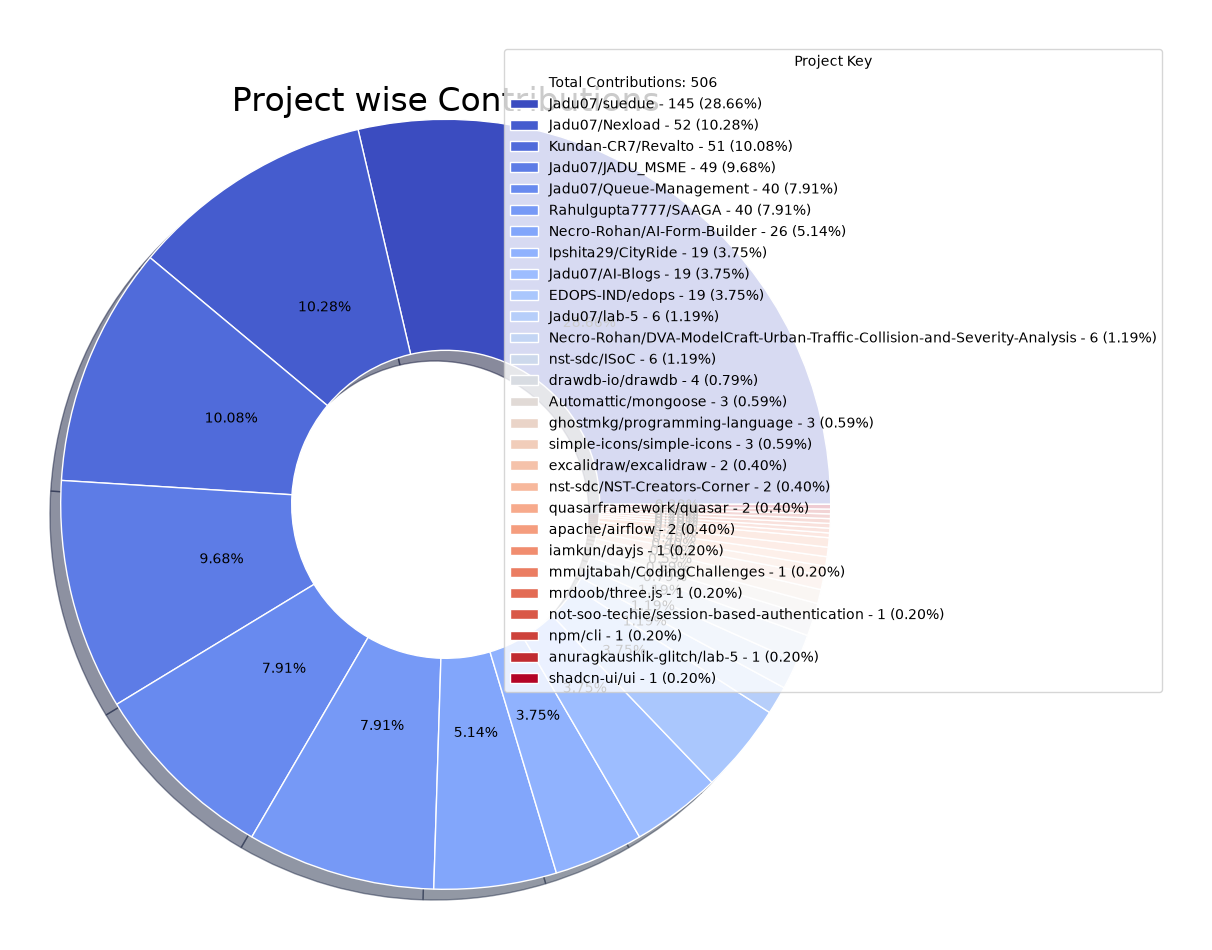
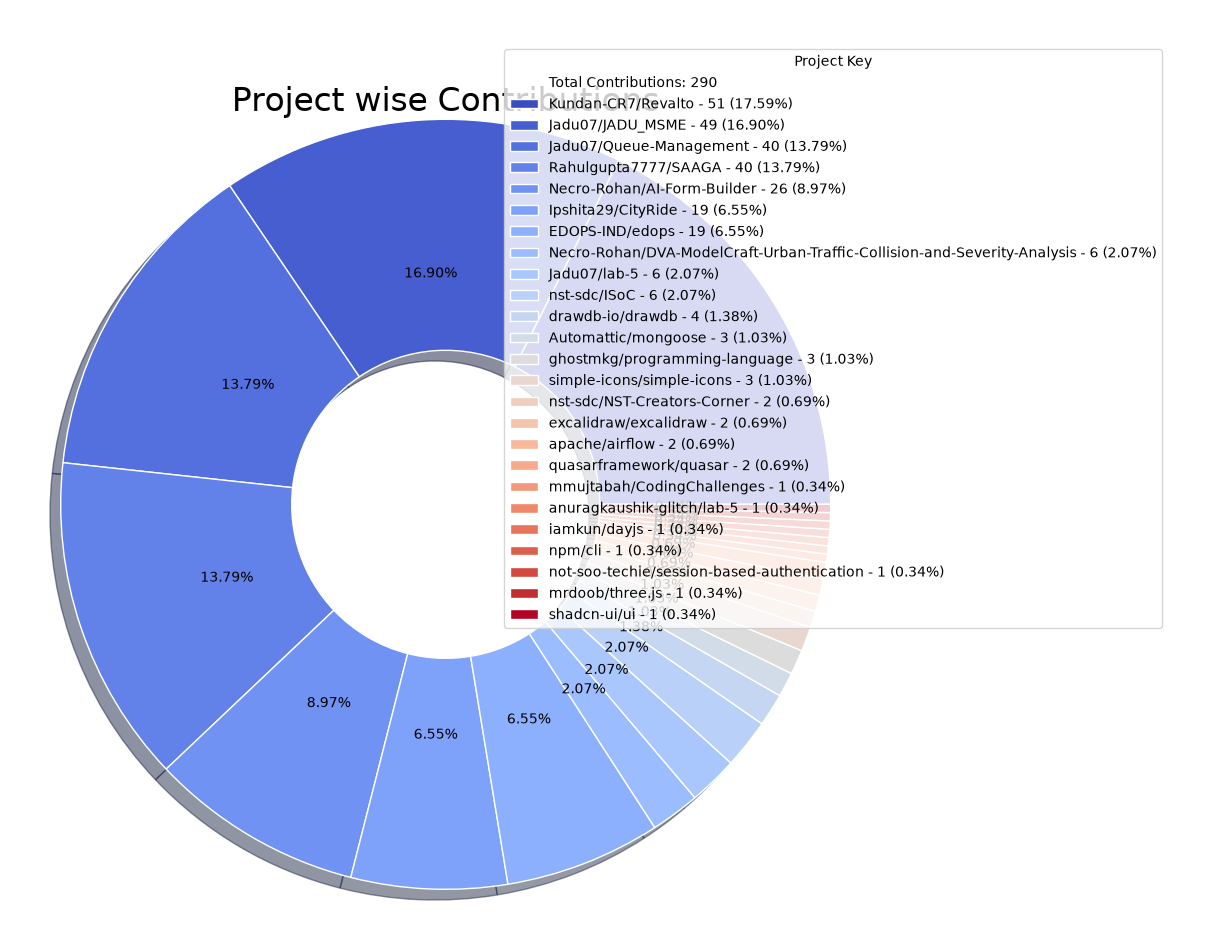
Run workflow and update to latest reports

diff --git a/output/github_contributions_report.md b/output/github_contributions_report.md
@@ -1,17 +1,17 @@
 # OpenSource Contributions Report
 
-*Report auto-generated on: 2026-10-23 22:31:16 for period 2023-01-01 to 2026-10-24*
+*Report auto-generated on: 2026-10-23 17:25:35 for period 2023-01-01 to 2026-10-24*
 
 ## Overall Summary
 
 | Metric | Value |
 |--------|-------|
-| Total number of projects | 28 |
-| Total number of repositories | 31 |
-| Total number of contributions | 506 |
-| Number of commits to master* | 492 |
+| Total number of projects | 25 |
+| Total number of repositories | 28 |
+| Total number of contributions | 290 |
+| Number of commits to master* | 276 |
 | Number of pull requests (Open)* | 9 |
-| Number of pull requests (Closed) | 138 |
+| Number of pull requests (Closed) | 117 |
 | Number of issues (Open)* | 1 |
 | Number of issues (Closed)* | 2 |
 | Total unique PRs reviewed* | 2 |
@@ -27,40 +27,37 @@
 
 | Project Key | Repositories | Users | Commits | Pull Requests (Open) | Pull Requests (Closed) | Issues (Open) | Issues (Closed) | Code Reviews | Overall Contribution |
 |--------------|--------------|-------|---------|----------------------|----------------------|----------------|----------------|--------------|----------------------|
-| Jadu07/suedue | <img src='https://avatars.githubusercontent.com/u/129044960?v=4' width='12' height='12'> [Jadu07/suedue](https://github.com/Jadu07/suedue) | <img src='https://avatars.githubusercontent.com/u/129044960?v=4' width='12' height='12'> [Yashraj Chouhan](https://github.com/Jadu07) | 145 | 0 | 6 | 0 | 0 | 0 | 145 |
-| Jadu07/Nexload | <img src='https://avatars.githubusercontent.com/u/129044960?v=4' width='12' height='12'> [Jadu07/Nexload](https://github.com/Jadu07/Nexload) | <img src='https://avatars.githubusercontent.com/u/129044960?v=4' width='12' height='12'> [Yashraj Chouhan](https://github.com/Jadu07) | 52 | 0 | 11 | 0 | 0 | 0 | 52 |
 | Kundan-CR7/Revalto | <img src='https://avatars.githubusercontent.com/u/184846815?v=4' width='12' height='12'> [Kundan-CR7/Revalto](https://github.com/Kundan-CR7/Revalto) | <img src='https://avatars.githubusercontent.com/u/129044960?v=4' width='12' height='12'> [Yashraj Chouhan](https://github.com/Jadu07) | 51 | 0 | 25 | 0 | 0 | 0 | 51 |
 | Jadu07/JADU_MSME | <img src='https://avatars.githubusercontent.com/u/129044960?v=4' width='12' height='12'> [Jadu07/JADU_MSME](https://github.com/Jadu07/JADU_MSME) | <img src='https://avatars.githubusercontent.com/u/129044960?v=4' width='12' height='12'> [Yashraj Chouhan](https://github.com/Jadu07) | 49 | 0 | 14 | 0 | 0 | 0 | 49 |
 | Jadu07/Queue-Management | <img src='https://avatars.githubusercontent.com/u/129044960?v=4' width='12' height='12'> [Jadu07/Queue-Management](https://github.com/Jadu07/Queue-Management) | <img src='https://avatars.githubusercontent.com/u/129044960?v=4' width='12' height='12'> [Yashraj Chouhan](https://github.com/Jadu07) | 40 | 0 | 1 | 0 | 0 | 0 | 40 |
 | Rahulgupta7777/SAAGA | <img src='https://avatars.githubusercontent.com/u/184137065?v=4' width='12' height='12'> [Rahulgupta7777/SAAGA](https://github.com/Rahulgupta7777/SAAGA) | <img src='https://avatars.githubusercontent.com/u/129044960?v=4' width='12' height='12'> [Yashraj Chouhan](https://github.com/Jadu07) | 40 | 0 | 22 | 0 | 0 | 0 | 40 |
 | Necro-Rohan/AI-Form-Builder | <img src='https://avatars.githubusercontent.com/u/184369299?v=4' width='12' height='12'> [Necro-Rohan/AI-Form-Builder](https://github.com/Necro-Rohan/AI-Form-Builder) | <img src='https://avatars.githubusercontent.com/u/129044960?v=4' width='12' height='12'> [Yashraj Chouhan](https://github.com/Jadu07) | 26 | 0 | 3 | 0 | 0 | 0 | 26 |
 | Ipshita29/CityRide | <img src='https://avatars.githubusercontent.com/u/184509749?v=4' width='12' height='12'> [Ipshita29/CityRide](https://github.com/Ipshita29/CityRide) | <img src='https://avatars.githubusercontent.com/u/129044960?v=4' width='12' height='12'> [Yashraj Chouhan](https://github.com/Jadu07) | 19 | 0 | 9 | 0 | 0 | 0 | 19 |
-| Jadu07/AI-Blogs | <img src='https://avatars.githubusercontent.com/u/129044960?v=4' width='12' height='12'> [Jadu07/AI-Blogs](https://github.com/Jadu07/AI-Blogs) | <img src='https://avatars.githubusercontent.com/u/129044960?v=4' width='12' height='12'> [Yashraj Chouhan](https://github.com/Jadu07) | 19 | 0 | 4 | 0 | 0 | 0 | 19 |
 | EDOPS-IND/edops | <img src='https://avatars.githubusercontent.com/u/326812527?v=4' width='12' height='12'> [EDOPS-IND/edops](https://github.com/EDOPS-IND/edops) | <img src='https://avatars.githubusercontent.com/u/129044960?v=4' width='12' height='12'> [Yashraj Chouhan](https://github.com/Jadu07) | 19 | 0 | 13 | 0 | 0 | 0 | 19 |
-| Jadu07/lab-5 | <img src='https://avatars.githubusercontent.com/u/129044960?v=4' width='12' height='12'> [Jadu07/lab-5](https://github.com/Jadu07/lab-5) | <img src='https://avatars.githubusercontent.com/u/129044960?v=4' width='12' height='12'> [Yashraj Chouhan](https://github.com/Jadu07) | 6 | 0 | 1 | 0 | 0 | 0 | 6 |
 | Necro-Rohan/DVA-ModelCraft-Urban-Traffic-Collision-and-Severity-Analysis | <img src='https://avatars.githubusercontent.com/u/184369299?v=4' width='12' height='12'> [Necro-Rohan/DVA-ModelCraft-Urban-Traffic-Collision-and-Severity-Analysis](https://github.com/Necro-Rohan/DVA-ModelCraft-Urban-Traffic-Collision-and-Severity-Analysis) | <img src='https://avatars.githubusercontent.com/u/129044960?v=4' width='12' height='12'> [Yashraj Chouhan](https://github.com/Jadu07) | 6 | 0 | 3 | 0 | 0 | 0 | 6 |
+| Jadu07/lab-5 | <img src='https://avatars.githubusercontent.com/u/129044960?v=4' width='12' height='12'> [Jadu07/lab-5](https://github.com/Jadu07/lab-5) | <img src='https://avatars.githubusercontent.com/u/129044960?v=4' width='12' height='12'> [Yashraj Chouhan](https://github.com/Jadu07) | 6 | 0 | 1 | 0 | 0 | 0 | 6 |
 | nst-sdc/ISoC | <img src='https://avatars.githubusercontent.com/u/187773245?v=4' width='12' height='12'> [nst-sdc/ISoC](https://github.com/nst-sdc/ISoC) | <img src='https://avatars.githubusercontent.com/u/129044960?v=4' width='12' height='12'> [Yashraj Chouhan](https://github.com/Jadu07) | 6 | 0 | 5 | 0 | 0 | 0 | 6 |
 | drawdb-io/drawdb | <img src='https://avatars.githubusercontent.com/u/139706923?v=4' width='12' height='12'> [drawdb-io/drawdb](https://github.com/drawdb-io/drawdb) | <img src='https://avatars.githubusercontent.com/u/129044960?v=4' width='12' height='12'> [Yashraj Chouhan](https://github.com/Jadu07) | 1 | 2 | 1 | 0 | 1 | 0 | 4 |
 | Automattic/mongoose | <img src='https://avatars.githubusercontent.com/u/887802?v=4' width='12' height='12'> [Automattic/mongoose](https://github.com/Automattic/mongoose) | <img src='https://avatars.githubusercontent.com/u/129044960?v=4' width='12' height='12'> [Yashraj Chouhan](https://github.com/Jadu07) | 2 | 0 | 1 | 0 | 0 | 1 | 3 |
 | ghostmkg/programming-language | <img src='https://avatars.githubusercontent.com/u/155181043?v=4' width='12' height='12'> [ghostmkg/programming-language](https://github.com/ghostmkg/programming-language) | <img src='https://avatars.githubusercontent.com/u/129044960?v=4' width='12' height='12'> [Yashraj Chouhan](https://github.com/Jadu07) | 3 | 0 | 4 | 0 | 0 | 0 | 3 |
 | simple-icons/simple-icons | <img src='https://avatars.githubusercontent.com/u/29872746?v=4' width='12' height='12'> [simple-icons/simple-icons](https://github.com/simple-icons/simple-icons) | <img src='https://avatars.githubusercontent.com/u/129044960?v=4' width='12' height='12'> [Yashraj Chouhan](https://github.com/Jadu07) | 0 | 2 | 0 | 0 | 0 | 1 | 3 |
-| excalidraw/excalidraw | <img src='https://avatars.githubusercontent.com/u/59452120?v=4' width='12' height='12'> [excalidraw/excalidraw](https://github.com/excalidraw/excalidraw) | <img src='https://avatars.githubusercontent.com/u/129044960?v=4' width='12' height='12'> [Yashraj Chouhan](https://github.com/Jadu07) | 0 | 1 | 0 | 1 | 0 | 0 | 2 |
 | nst-sdc/NST-Creators-Corner | <img src='https://avatars.githubusercontent.com/u/187773245?v=4' width='12' height='12'> [nst-sdc/NST-Creators-Corner](https://github.com/nst-sdc/NST-Creators-Corner) | <img src='https://avatars.githubusercontent.com/u/129044960?v=4' width='12' height='12'> [Yashraj Chouhan](https://github.com/Jadu07) | 1 | 0 | 1 | 0 | 1 | 0 | 2 |
-| quasarframework/quasar | <img src='https://avatars.githubusercontent.com/u/23064371?v=4' width='12' height='12'> [quasarframework/quasar](https://github.com/quasarframework/quasar) | <img src='https://avatars.githubusercontent.com/u/129044960?v=4' width='12' height='12'> [Yashraj Chouhan](https://github.com/Jadu07) | 2 | 0 | 4 | 0 | 0 | 0 | 2 |
+| excalidraw/excalidraw | <img src='https://avatars.githubusercontent.com/u/59452120?v=4' width='12' height='12'> [excalidraw/excalidraw](https://github.com/excalidraw/excalidraw) | <img src='https://avatars.githubusercontent.com/u/129044960?v=4' width='12' height='12'> [Yashraj Chouhan](https://github.com/Jadu07) | 0 | 1 | 0 | 1 | 0 | 0 | 2 |
 | apache/airflow | <img src='https://avatars.githubusercontent.com/u/47359?v=4' width='12' height='12'> [apache/airflow](https://github.com/apache/airflow) | <img src='https://avatars.githubusercontent.com/u/129044960?v=4' width='12' height='12'> [Yashraj Chouhan](https://github.com/Jadu07) | 2 | 0 | 2 | 0 | 0 | 0 | 2 |
-| iamkun/dayjs | <img src='https://avatars.githubusercontent.com/u/17680888?v=4' width='12' height='12'> [iamkun/dayjs](https://github.com/iamkun/dayjs) | <img src='https://avatars.githubusercontent.com/u/129044960?v=4' width='12' height='12'> [Yashraj Chouhan](https://github.com/Jadu07) | 0 | 1 | 0 | 0 | 0 | 0 | 1 |
+| quasarframework/quasar | <img src='https://avatars.githubusercontent.com/u/23064371?v=4' width='12' height='12'> [quasarframework/quasar](https://github.com/quasarframework/quasar) | <img src='https://avatars.githubusercontent.com/u/129044960?v=4' width='12' height='12'> [Yashraj Chouhan](https://github.com/Jadu07) | 2 | 0 | 4 | 0 | 0 | 0 | 2 |
 | mmujtabah/CodingChallenges | <img src='https://avatars.githubusercontent.com/u/64016614?v=4' width='12' height='12'> [mmujtabah/CodingChallenges](https://github.com/mmujtabah/CodingChallenges) | <img src='https://avatars.githubusercontent.com/u/129044960?v=4' width='12' height='12'> [Yashraj Chouhan](https://github.com/Jadu07) | 1 | 0 | 1 | 0 | 0 | 0 | 1 |
-| mrdoob/three.js | <img src='https://avatars.githubusercontent.com/u/97088?v=4' width='12' height='12'> [mrdoob/three.js](https://github.com/mrdoob/three.js) | <img src='https://avatars.githubusercontent.com/u/129044960?v=4' width='12' height='12'> [Yashraj Chouhan](https://github.com/Jadu07) | 1 | 0 | 3 | 0 | 0 | 0 | 1 |
-| not-soo-techie/session-based-authentication | <img src='https://avatars.githubusercontent.com/u/233537752?v=4' width='12' height='12'> [not-soo-techie/session-based-authentication](https://github.com/not-soo-techie/session-based-authentication) | <img src='https://avatars.githubusercontent.com/u/129044960?v=4' width='12' height='12'> [Yashraj Chouhan](https://github.com/Jadu07) | 0 | 1 | 0 | 0 | 0 | 0 | 1 |
-| npm/cli | <img src='https://avatars.githubusercontent.com/u/6078720?v=4' width='12' height='12'> [npm/cli](https://github.com/npm/cli) | <img src='https://avatars.githubusercontent.com/u/129044960?v=4' width='12' height='12'> [Yashraj Chouhan](https://github.com/Jadu07) | 1 | 0 | 1 | 0 | 0 | 0 | 1 |
 | anuragkaushik-glitch/lab-5 | <img src='https://avatars.githubusercontent.com/u/228701472?v=4' width='12' height='12'> [anuragkaushik-glitch/lab-5](https://github.com/anuragkaushik-glitch/lab-5) | <img src='https://avatars.githubusercontent.com/u/129044960?v=4' width='12' height='12'> [Yashraj Chouhan](https://github.com/Jadu07) | 0 | 1 | 0 | 0 | 0 | 0 | 1 |
+| iamkun/dayjs | <img src='https://avatars.githubusercontent.com/u/17680888?v=4' width='12' height='12'> [iamkun/dayjs](https://github.com/iamkun/dayjs) | <img src='https://avatars.githubusercontent.com/u/129044960?v=4' width='12' height='12'> [Yashraj Chouhan](https://github.com/Jadu07) | 0 | 1 | 0 | 0 | 0 | 0 | 1 |
+| npm/cli | <img src='https://avatars.githubusercontent.com/u/6078720?v=4' width='12' height='12'> [npm/cli](https://github.com/npm/cli) | <img src='https://avatars.githubusercontent.com/u/129044960?v=4' width='12' height='12'> [Yashraj Chouhan](https://github.com/Jadu07) | 1 | 0 | 1 | 0 | 0 | 0 | 1 |
+| not-soo-techie/session-based-authentication | <img src='https://avatars.githubusercontent.com/u/233537752?v=4' width='12' height='12'> [not-soo-techie/session-based-authentication](https://github.com/not-soo-techie/session-based-authentication) | <img src='https://avatars.githubusercontent.com/u/129044960?v=4' width='12' height='12'> [Yashraj Chouhan](https://github.com/Jadu07) | 0 | 1 | 0 | 0 | 0 | 0 | 1 |
+| mrdoob/three.js | <img src='https://avatars.githubusercontent.com/u/97088?v=4' width='12' height='12'> [mrdoob/three.js](https://github.com/mrdoob/three.js) | <img src='https://avatars.githubusercontent.com/u/129044960?v=4' width='12' height='12'> [Yashraj Chouhan](https://github.com/Jadu07) | 1 | 0 | 3 | 0 | 0 | 0 | 1 |
 | shadcn-ui/ui | <img src='https://avatars.githubusercontent.com/u/139895814?v=4' width='12' height='12'> [shadcn-ui/ui](https://github.com/shadcn-ui/ui) | <img src='https://avatars.githubusercontent.com/u/129044960?v=4' width='12' height='12'> [Yashraj Chouhan](https://github.com/Jadu07) | 0 | 1 | 0 | 0 | 0 | 0 | 1 |
 
 ## Summary of Contributions by each user
 
 | User | Repositories | Commits | Pull Requests (Open) | Pull Requests (Closed) | Issues (Open) | Issues (Closed) | Code Reviews | Overall Contribution |
 |------|--------------|---------|----------------------|----------------------|----------------|----------------|--------------|----------------------|
-| <img src='https://avatars.githubusercontent.com/u/129044960?v=4' width='12' height='12'> [Yashraj Chouhan](https://github.com/Jadu07) | <img src='https://avatars.githubusercontent.com/u/887802?v=4' width='12' height='12'> [Automattic/mongoose](https://github.com/Automattic/mongoose)<br><img src='https://avatars.githubusercontent.com/u/326812527?v=4' width='12' height='12'> [EDOPS-IND/edops](https://github.com/EDOPS-IND/edops)<br><img src='https://avatars.githubusercontent.com/u/184509749?v=4' width='12' height='12'> [Ipshita29/CityRide](https://github.com/Ipshita29/CityRide)<br><img src='https://avatars.githubusercontent.com/u/129044960?v=4' width='12' height='12'> [Jadu07/AI-Blogs](https://github.com/Jadu07/AI-Blogs)<br><img src='https://avatars.githubusercontent.com/u/129044960?v=4' width='12' height='12'> [Jadu07/JADU_MSME](https://github.com/Jadu07/JADU_MSME)<br><img src='https://avatars.githubusercontent.com/u/129044960?v=4' width='12' height='12'> [Jadu07/Nexload](https://github.com/Jadu07/Nexload)<br><img src='https://avatars.githubusercontent.com/u/129044960?v=4' width='12' height='12'> [Jadu07/Queue-Management](https://github.com/Jadu07/Queue-Management)<br><img src='https://avatars.githubusercontent.com/u/129044960?v=4' width='12' height='12'> [Jadu07/lab-5](https://github.com/Jadu07/lab-5)<br><img src='https://avatars.githubusercontent.com/u/129044960?v=4' width='12' height='12'> [Jadu07/suedue](https://github.com/Jadu07/suedue)<br><img src='https://avatars.githubusercontent.com/u/184846815?v=4' width='12' height='12'> [Kundan-CR7/Revalto](https://github.com/Kundan-CR7/Revalto)<br><img src='https://avatars.githubusercontent.com/u/184369299?v=4' width='12' height='12'> [Necro-Rohan/AI-Form-Builder](https://github.com/Necro-Rohan/AI-Form-Builder)<br><img src='https://avatars.githubusercontent.com/u/184369299?v=4' width='12' height='12'> [Necro-Rohan/DVA-ModelCraft-Urban-Traffic-Collision-and-Severity-Analysis](https://github.com/Necro-Rohan/DVA-ModelCraft-Urban-Traffic-Collision-and-Severity-Analysis)<br><img src='https://avatars.githubusercontent.com/u/184137065?v=4' width='12' height='12'> [Rahulgupta7777/SAAGA](https://github.com/Rahulgupta7777/SAAGA)<br><img src='https://avatars.githubusercontent.com/u/228701472?v=4' width='12' height='12'> [anuragkaushik-glitch/lab-5](https://github.com/anuragkaushik-glitch/lab-5)<br><img src='https://avatars.githubusercontent.com/u/47359?v=4' width='12' height='12'> [apache/airflow](https://github.com/apache/airflow)<br><img src='https://avatars.githubusercontent.com/u/139706923?v=4' width='12' height='12'> [drawdb-io/drawdb](https://github.com/drawdb-io/drawdb)<br><img src='https://avatars.githubusercontent.com/u/59452120?v=4' width='12' height='12'> [excalidraw/excalidraw](https://github.com/excalidraw/excalidraw)<br><img src='https://avatars.githubusercontent.com/u/155181043?v=4' width='12' height='12'> [ghostmkg/programming-language](https://github.com/ghostmkg/programming-language)<br><img src='https://avatars.githubusercontent.com/u/155181043?v=4' width='12' height='12'> [ghostmkg/web-development](https://github.com/ghostmkg/web-development)<br><img src='https://avatars.githubusercontent.com/u/133942800?v=4' width='12' height='12'> [hk2166/Scaler-Hacks](https://github.com/hk2166/Scaler-Hacks)<br><img src='https://avatars.githubusercontent.com/u/17680888?v=4' width='12' height='12'> [iamkun/dayjs](https://github.com/iamkun/dayjs)<br><img src='https://avatars.githubusercontent.com/u/64016614?v=4' width='12' height='12'> [mmujtabah/CodingChallenges](https://github.com/mmujtabah/CodingChallenges)<br><img src='https://avatars.githubusercontent.com/u/97088?v=4' width='12' height='12'> [mrdoob/three.js](https://github.com/mrdoob/three.js)<br><img src='https://avatars.githubusercontent.com/u/233537752?v=4' width='12' height='12'> [not-soo-techie/session-based-authentication](https://github.com/not-soo-techie/session-based-authentication)<br><img src='https://avatars.githubusercontent.com/u/6078720?v=4' width='12' height='12'> [npm/cli](https://github.com/npm/cli)<br><img src='https://avatars.githubusercontent.com/u/187773245?v=4' width='12' height='12'> [nst-sdc/ISoC](https://github.com/nst-sdc/ISoC)<br><img src='https://avatars.githubusercontent.com/u/187773245?v=4' width='12' height='12'> [nst-sdc/NST-Creators-Corner](https://github.com/nst-sdc/NST-Creators-Corner)<br><img src='https://avatars.githubusercontent.com/u/23064371?v=4' width='12' height='12'> [quasarframework/quasar](https://github.com/quasarframework/quasar)<br><img src='https://avatars.githubusercontent.com/u/139895814?v=4' width='12' height='12'> [shadcn-ui/ui](https://github.com/shadcn-ui/ui)<br><img src='https://avatars.githubusercontent.com/u/29872746?v=4' width='12' height='12'> [simple-icons/simple-icons](https://github.com/simple-icons/simple-icons)<br><img src='https://avatars.githubusercontent.com/u/260832?v=4' width='12' height='12'> [sympy/sympy](https://github.com/sympy/sympy) | 492 | 9 | 138 | 1 | 2 | 2 | 506 |
+| <img src='https://avatars.githubusercontent.com/u/129044960?v=4' width='12' height='12'> [Yashraj Chouhan](https://github.com/Jadu07) | <img src='https://avatars.githubusercontent.com/u/887802?v=4' width='12' height='12'> [Automattic/mongoose](https://github.com/Automattic/mongoose)<br><img src='https://avatars.githubusercontent.com/u/326812527?v=4' width='12' height='12'> [EDOPS-IND/edops](https://github.com/EDOPS-IND/edops)<br><img src='https://avatars.githubusercontent.com/u/184509749?v=4' width='12' height='12'> [Ipshita29/CityRide](https://github.com/Ipshita29/CityRide)<br><img src='https://avatars.githubusercontent.com/u/129044960?v=4' width='12' height='12'> [Jadu07/JADU_MSME](https://github.com/Jadu07/JADU_MSME)<br><img src='https://avatars.githubusercontent.com/u/129044960?v=4' width='12' height='12'> [Jadu07/Queue-Management](https://github.com/Jadu07/Queue-Management)<br><img src='https://avatars.githubusercontent.com/u/129044960?v=4' width='12' height='12'> [Jadu07/lab-5](https://github.com/Jadu07/lab-5)<br><img src='https://avatars.githubusercontent.com/u/184846815?v=4' width='12' height='12'> [Kundan-CR7/Revalto](https://github.com/Kundan-CR7/Revalto)<br><img src='https://avatars.githubusercontent.com/u/184369299?v=4' width='12' height='12'> [Necro-Rohan/AI-Form-Builder](https://github.com/Necro-Rohan/AI-Form-Builder)<br><img src='https://avatars.githubusercontent.com/u/184369299?v=4' width='12' height='12'> [Necro-Rohan/DVA-ModelCraft-Urban-Traffic-Collision-and-Severity-Analysis](https://github.com/Necro-Rohan/DVA-ModelCraft-Urban-Traffic-Collision-and-Severity-Analysis)<br><img src='https://avatars.githubusercontent.com/u/184137065?v=4' width='12' height='12'> [Rahulgupta7777/SAAGA](https://github.com/Rahulgupta7777/SAAGA)<br><img src='https://avatars.githubusercontent.com/u/228701472?v=4' width='12' height='12'> [anuragkaushik-glitch/lab-5](https://github.com/anuragkaushik-glitch/lab-5)<br><img src='https://avatars.githubusercontent.com/u/47359?v=4' width='12' height='12'> [apache/airflow](https://github.com/apache/airflow)<br><img src='https://avatars.githubusercontent.com/u/139706923?v=4' width='12' height='12'> [drawdb-io/drawdb](https://github.com/drawdb-io/drawdb)<br><img src='https://avatars.githubusercontent.com/u/59452120?v=4' width='12' height='12'> [excalidraw/excalidraw](https://github.com/excalidraw/excalidraw)<br><img src='https://avatars.githubusercontent.com/u/155181043?v=4' width='12' height='12'> [ghostmkg/programming-language](https://github.com/ghostmkg/programming-language)<br><img src='https://avatars.githubusercontent.com/u/155181043?v=4' width='12' height='12'> [ghostmkg/web-development](https://github.com/ghostmkg/web-development)<br><img src='https://avatars.githubusercontent.com/u/133942800?v=4' width='12' height='12'> [hk2166/Scaler-Hacks](https://github.com/hk2166/Scaler-Hacks)<br><img src='https://avatars.githubusercontent.com/u/17680888?v=4' width='12' height='12'> [iamkun/dayjs](https://github.com/iamkun/dayjs)<br><img src='https://avatars.githubusercontent.com/u/64016614?v=4' width='12' height='12'> [mmujtabah/CodingChallenges](https://github.com/mmujtabah/CodingChallenges)<br><img src='https://avatars.githubusercontent.com/u/97088?v=4' width='12' height='12'> [mrdoob/three.js](https://github.com/mrdoob/three.js)<br><img src='https://avatars.githubusercontent.com/u/233537752?v=4' width='12' height='12'> [not-soo-techie/session-based-authentication](https://github.com/not-soo-techie/session-based-authentication)<br><img src='https://avatars.githubusercontent.com/u/6078720?v=4' width='12' height='12'> [npm/cli](https://github.com/npm/cli)<br><img src='https://avatars.githubusercontent.com/u/187773245?v=4' width='12' height='12'> [nst-sdc/ISoC](https://github.com/nst-sdc/ISoC)<br><img src='https://avatars.githubusercontent.com/u/187773245?v=4' width='12' height='12'> [nst-sdc/NST-Creators-Corner](https://github.com/nst-sdc/NST-Creators-Corner)<br><img src='https://avatars.githubusercontent.com/u/23064371?v=4' width='12' height='12'> [quasarframework/quasar](https://github.com/quasarframework/quasar)<br><img src='https://avatars.githubusercontent.com/u/139895814?v=4' width='12' height='12'> [shadcn-ui/ui](https://github.com/shadcn-ui/ui)<br><img src='https://avatars.githubusercontent.com/u/29872746?v=4' width='12' height='12'> [simple-icons/simple-icons](https://github.com/simple-icons/simple-icons)<br><img src='https://avatars.githubusercontent.com/u/260832?v=4' width='12' height='12'> [sympy/sympy](https://github.com/sympy/sympy) | 276 | 9 | 117 | 1 | 2 | 2 | 290 |
 
 ## Detailed Contributions
 
@@ -79,12 +76,9 @@
 | mrdoob/three.js | <img src='https://avatars.githubusercontent.com/u/97088?v=4' width='12' height='12'> [mrdoob/three.js](https://github.com/mrdoob/three.js) | <img src='https://avatars.githubusercontent.com/u/129044960?v=4' width='12' height='12'> [Yashraj Chouhan](https://github.com/Jadu07) | N/A | 1 | 0 | 3 | 0 | 0 | 0 | 1 |
 | mmujtabah/CodingChallenges | <img src='https://avatars.githubusercontent.com/u/64016614?v=4' width='12' height='12'> [mmujtabah/CodingChallenges](https://github.com/mmujtabah/CodingChallenges) | <img src='https://avatars.githubusercontent.com/u/129044960?v=4' width='12' height='12'> [Yashraj Chouhan](https://github.com/Jadu07) | 11 | 1 | 0 | 1 | 0 | 0 | 0 | 1 |
 | Kundan-CR7/Revalto | <img src='https://avatars.githubusercontent.com/u/184846815?v=4' width='12' height='12'> [Kundan-CR7/Revalto](https://github.com/Kundan-CR7/Revalto) | <img src='https://avatars.githubusercontent.com/u/129044960?v=4' width='12' height='12'> [Yashraj Chouhan](https://github.com/Jadu07) | 1 | 51 | 0 | 25 | 0 | 0 | 0 | 51 |
-| Jadu07/suedue | <img src='https://avatars.githubusercontent.com/u/129044960?v=4' width='12' height='12'> [Jadu07/suedue](https://github.com/Jadu07/suedue) | <img src='https://avatars.githubusercontent.com/u/129044960?v=4' width='12' height='12'> [Yashraj Chouhan](https://github.com/Jadu07) | 1 | 145 | 0 | 6 | 0 | 0 | 0 | 145 |
-| simple-icons/simple-icons | <img src='https://avatars.githubusercontent.com/u/29872746?v=4' width='12' height='12'> [simple-icons/simple-icons](https://github.com/simple-icons/simple-icons) | <img src='https://avatars.githubusercontent.com/u/129044960?v=4' width='12' height='12'> [Yashraj Chouhan](https://github.com/Jadu07) | N/A | 0 | 2 | 0 | 0 | 0 | 1 | 3 |
 | Jadu07/Queue-Management | <img src='https://avatars.githubusercontent.com/u/129044960?v=4' width='12' height='12'> [Jadu07/Queue-Management](https://github.com/Jadu07/Queue-Management) | <img src='https://avatars.githubusercontent.com/u/129044960?v=4' width='12' height='12'> [Yashraj Chouhan](https://github.com/Jadu07) | 1 | 40 | 0 | 1 | 0 | 0 | 0 | 40 |
 | Jadu07/lab-5 | <img src='https://avatars.githubusercontent.com/u/129044960?v=4' width='12' height='12'> [Jadu07/lab-5](https://github.com/Jadu07/lab-5) | <img src='https://avatars.githubusercontent.com/u/129044960?v=4' width='12' height='12'> [Yashraj Chouhan](https://github.com/Jadu07) | 1 | 6 | 0 | 1 | 0 | 0 | 0 | 6 |
 | Jadu07/JADU_MSME | <img src='https://avatars.githubusercontent.com/u/129044960?v=4' width='12' height='12'> [Jadu07/JADU_MSME](https://github.com/Jadu07/JADU_MSME) | <img src='https://avatars.githubusercontent.com/u/129044960?v=4' width='12' height='12'> [Yashraj Chouhan](https://github.com/Jadu07) | 1 | 49 | 0 | 14 | 0 | 0 | 0 | 49 |
-| Jadu07/AI-Blogs | <img src='https://avatars.githubusercontent.com/u/129044960?v=4' width='12' height='12'> [Jadu07/AI-Blogs](https://github.com/Jadu07/AI-Blogs) | <img src='https://avatars.githubusercontent.com/u/129044960?v=4' width='12' height='12'> [Yashraj Chouhan](https://github.com/Jadu07) | 1 | 19 | 0 | 4 | 0 | 0 | 0 | 19 |
 | Ipshita29/CityRide | <img src='https://avatars.githubusercontent.com/u/184509749?v=4' width='12' height='12'> [Ipshita29/CityRide](https://github.com/Ipshita29/CityRide) | <img src='https://avatars.githubusercontent.com/u/129044960?v=4' width='12' height='12'> [Yashraj Chouhan](https://github.com/Jadu07) | 3 | 19 | 0 | 9 | 0 | 0 | 0 | 19 |
 | iamkun/dayjs | <img src='https://avatars.githubusercontent.com/u/17680888?v=4' width='12' height='12'> [iamkun/dayjs](https://github.com/iamkun/dayjs) | <img src='https://avatars.githubusercontent.com/u/129044960?v=4' width='12' height='12'> [Yashraj Chouhan](https://github.com/Jadu07) | N/A | 0 | 1 | 0 | 0 | 0 | 0 | 1 |
 | hk2166/Scaler-Hacks | <img src='https://avatars.githubusercontent.com/u/133942800?v=4' width='12' height='12'> [hk2166/Scaler-Hacks](https://github.com/hk2166/Scaler-Hacks) | <img src='https://avatars.githubusercontent.com/u/129044960?v=4' width='12' height='12'> [Yashraj Chouhan](https://github.com/Jadu07) | N/A | 0 | 0 | 1 | 0 | 0 | 0 | 0 |
@@ -95,7 +89,7 @@
 | drawdb-io/drawdb | <img src='https://avatars.githubusercontent.com/u/139706923?v=4' width='12' height='12'> [drawdb-io/drawdb](https://github.com/drawdb-io/drawdb) | <img src='https://avatars.githubusercontent.com/u/129044960?v=4' width='12' height='12'> [Yashraj Chouhan](https://github.com/Jadu07) | 93 | 1 | 2 | 1 | 0 | 1 | 0 | 4 |
 | Automattic/mongoose | <img src='https://avatars.githubusercontent.com/u/887802?v=4' width='12' height='12'> [Automattic/mongoose](https://github.com/Automattic/mongoose) | <img src='https://avatars.githubusercontent.com/u/129044960?v=4' width='12' height='12'> [Yashraj Chouhan](https://github.com/Jadu07) | 278 | 2 | 0 | 1 | 0 | 0 | 1 | 3 |
 | apache/airflow | <img src='https://avatars.githubusercontent.com/u/47359?v=4' width='12' height='12'> [apache/airflow](https://github.com/apache/airflow) | <img src='https://avatars.githubusercontent.com/u/129044960?v=4' width='12' height='12'> [Yashraj Chouhan](https://github.com/Jadu07) | N/A | 2 | 0 | 2 | 0 | 0 | 0 | 2 |
-| Jadu07/Nexload | <img src='https://avatars.githubusercontent.com/u/129044960?v=4' width='12' height='12'> [Jadu07/Nexload](https://github.com/Jadu07/Nexload) | <img src='https://avatars.githubusercontent.com/u/129044960?v=4' width='12' height='12'> [Yashraj Chouhan](https://github.com/Jadu07) | 1 | 52 | 0 | 11 | 0 | 0 | 0 | 52 |
+| simple-icons/simple-icons | <img src='https://avatars.githubusercontent.com/u/29872746?v=4' width='12' height='12'> [simple-icons/simple-icons](https://github.com/simple-icons/simple-icons) | <img src='https://avatars.githubusercontent.com/u/129044960?v=4' width='12' height='12'> [Yashraj Chouhan](https://github.com/Jadu07) | N/A | 0 | 2 | 0 | 0 | 0 | 1 | 3 |
 | sympy/sympy | <img src='https://avatars.githubusercontent.com/u/260832?v=4' width='12' height='12'> [sympy/sympy](https://github.com/sympy/sympy) | <img src='https://avatars.githubusercontent.com/u/129044960?v=4' width='12' height='12'> [Yashraj Chouhan](https://github.com/Jadu07) | N/A | 0 | 0 | 1 | 0 | 0 | 0 | 0 |
 
 ## Activity Details
@@ -152,19 +146,6 @@
 | [#25](https://github.com/Ipshita29/CityRide/pull/25) | fixed safe area view error | ✅ Merged | 2025-11-29 | 2025-11-29 |  |
 | [#31](https://github.com/Ipshita29/CityRide/pull/31) | fixed routedetails | ✅ Merged | 2025-11-29 | 2025-11-29 |  |
 
-#### Jadu07/AI-Blogs
-
-##### [Jadu07/AI-Blogs](https://github.com/Jadu07/AI-Blogs)
-
-**Pull Requests**
-
-| # | Title | Status | Created | Updated | Labels |
-|---|-------|--------|---------|---------|--------|
-| [#1](https://github.com/Jadu07/AI-Blogs/pull/1) | Implement Inwire mobile UI | ✅ Merged | 2026-09-11 | 2026-09-11 |  |
-| [#2](https://github.com/Jadu07/AI-Blogs/pull/2) | ci: deploy scraper to Azure VM | ✅ Merged | 2026-09-15 | 2026-09-15 |  |
-| [#3](https://github.com/Jadu07/AI-Blogs/pull/3) | deploy: configure Render API service | ✅ Merged | 2026-09-15 | 2026-09-15 |  |
-| [#4](https://github.com/Jadu07/AI-Blogs/pull/4) | deploy: use Render free API plan | ✅ Merged | 2026-09-15 | 2026-09-15 |  |
-
 #### Jadu07/JADU_MSME
 
 ##### [Jadu07/JADU_MSME](https://github.com/Jadu07/JADU_MSME)
@@ -188,26 +169,6 @@
 | [#37](https://github.com/Jadu07/JADU_MSME/pull/37) | salesnorders | ✅ Merged | 2026-02-01 | 2026-02-01 |  |
 | [#41](https://github.com/Jadu07/JADU_MSME/pull/41) | ai | ✅ Merged | 2026-02-01 | 2026-02-01 |  |
 
-#### Jadu07/Nexload
-
-##### [Jadu07/Nexload](https://github.com/Jadu07/Nexload)
-
-**Pull Requests**
-
-| # | Title | Status | Created | Updated | Labels |
-|---|-------|--------|---------|---------|--------|
-| [#1](https://github.com/Jadu07/Nexload/pull/1) | Updated README.md | ✅ Merged | 2026-01-27 | 2026-01-27 |  |
-| [#2](https://github.com/Jadu07/Nexload/pull/2) | Fix search icon alignment in searchbar | ✅ Merged | 2026-01-27 | 2026-01-27 |  |
-| [#3](https://github.com/Jadu07/Nexload/pull/3) | update Hero component | ✅ Merged | 2026-01-28 | 2026-01-28 |  |
-| [#4](https://github.com/Jadu07/Nexload/pull/4) | Implement Google Auth with Passport.js and restore frontend login | ✅ Merged | 2026-01-28 | 2026-01-28 |  |
-| [#5](https://github.com/Jadu07/Nexload/pull/5) | Restore Upload button for authenticated users | ✅ Merged | 2026-01-28 | 2026-01-28 |  |
-| [#6](https://github.com/Jadu07/Nexload/pull/6) | navbar | ✅ Merged | 2026-01-28 | 2026-01-28 |  |
-| [#7](https://github.com/Jadu07/Nexload/pull/7) | fixed backend url | ✅ Merged | 2026-01-28 | 2026-01-28 |  |
-| [#8](https://github.com/Jadu07/Nexload/pull/8) | Add profile page with user resources and enhanced upload form | ✅ Merged | 2026-01-28 | 2026-01-28 |  |
-| [#9](https://github.com/Jadu07/Nexload/pull/9) | Add resource edit/delete functionality with lucide icons | ✅ Merged | 2026-01-28 | 2026-01-28 |  |
-| [#10](https://github.com/Jadu07/Nexload/pull/10) | category pages | ✅ Merged | 2026-01-28 | 2026-01-28 |  |
-| [#11](https://github.com/Jadu07/Nexload/pull/11) | Backend url fixes | ✅ Merged | 2026-01-28 | 2026-01-28 |  |
-
 #### Jadu07/Queue-Management
 
 ##### [Jadu07/Queue-Management](https://github.com/Jadu07/Queue-Management)
@@ -227,21 +188,6 @@
 | # | Title | Status | Created | Updated | Labels |
 |---|-------|--------|---------|---------|--------|
 | [#1](https://github.com/Jadu07/lab-5/pull/1) | on pull workflow | ✅ Merged | 2026-02-23 | 2026-02-23 |  |
-
-#### Jadu07/suedue
-
-##### [Jadu07/suedue](https://github.com/Jadu07/suedue)
-
-**Pull Requests**
-
-| # | Title | Status | Created | Updated | Labels |
-|---|-------|--------|---------|---------|--------|
-| [#1](https://github.com/Jadu07/suedue/pull/1) | Feat/UI overhaul and freecharge | ✅ Merged | 2026-09-29 | 2026-09-29 |  |
-| [#2](https://github.com/Jadu07/suedue/pull/2) | fix(freecharge): bypass Akamai IP block by running CSRF/PKE init in b… | ✅ Merged | 2026-09-29 | 2026-09-29 |  |
-| [#3](https://github.com/Jadu07/suedue/pull/3) | fix(freecharge): forward real client IP to bypass Akamai datacenter-I… | ✅ Merged | 2026-09-29 | 2026-09-29 |  |
-| [#4](https://github.com/Jadu07/suedue/pull/4) | Develop | ✅ Merged | 2026-10-06 | 2026-10-06 |  |
-| [#5](https://github.com/Jadu07/suedue/pull/5) | Develop | ✅ Merged | 2026-10-06 | 2026-10-06 |  |
-| [#6](https://github.com/Jadu07/suedue/pull/6) | feat: add branded payment gateway | ✅ Merged | 2026-10-20 | 2026-10-20 |  |
 
 #### Kundan-CR7/Revalto
 
